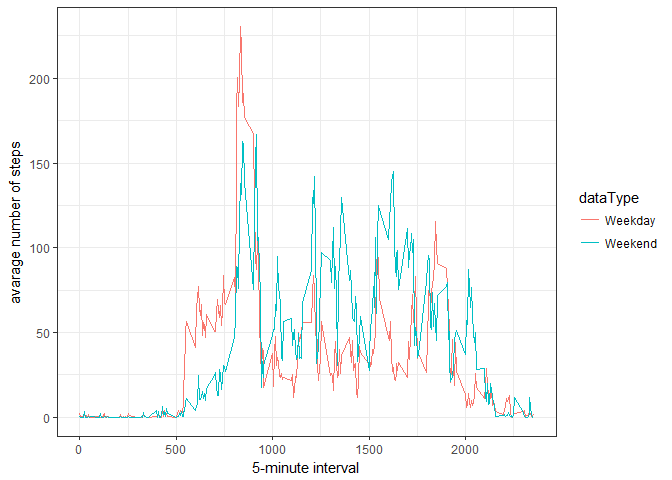
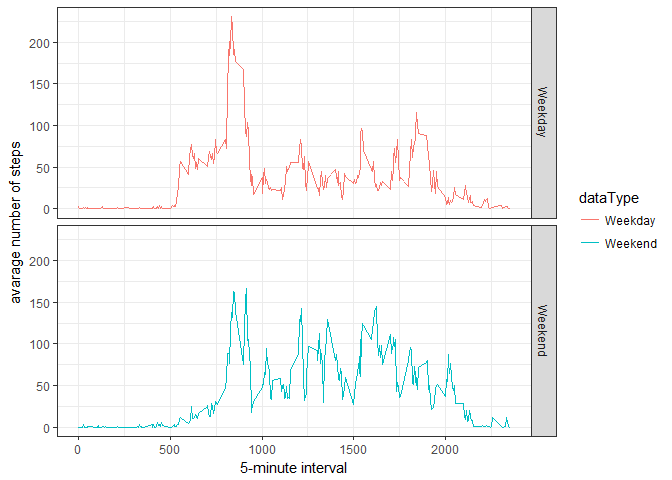
modified graphs

diff --git a/PA1.html b/PA1.html
@@ -218,8 +218,9 @@ names(avgActivityDataImputed)&lt;-c(&quot;interval&quot;,&quot;dataType&quot;,&q
 <pre class="r"><code>ggplot(avgActivityDataImputed, aes(interval, steps,color=dataType) ) + 
   geom_line() + theme_bw()+
     xlab(&quot;5-minute interval&quot;) + 
-  ylab(&quot;avarage number of steps&quot;)</code></pre>
[1 lines of base64/hex data omitted]
+  ylab(&quot;avarage number of steps&quot;)+
+    facet_grid(dataType ~ .) </code></pre>
[1 lines of base64/hex data omitted]
 </div>
 </div>
 

diff --git a/PA1.md b/PA1.md
@@ -117,7 +117,8 @@ names(avgActivityDataImputed)<-c("interval","dataType","steps")
 ggplot(avgActivityDataImputed, aes(interval, steps,color=dataType) ) + 
   geom_line() + theme_bw()+
     xlab("5-minute interval") + 
-  ylab("avarage number of steps")
+  ylab("avarage number of steps")+
+    facet_grid(dataType ~ .) 
 ```
 
 ![](PA1_files/figure-html/unnamed-chunk-15-1.png)<!-- -->
